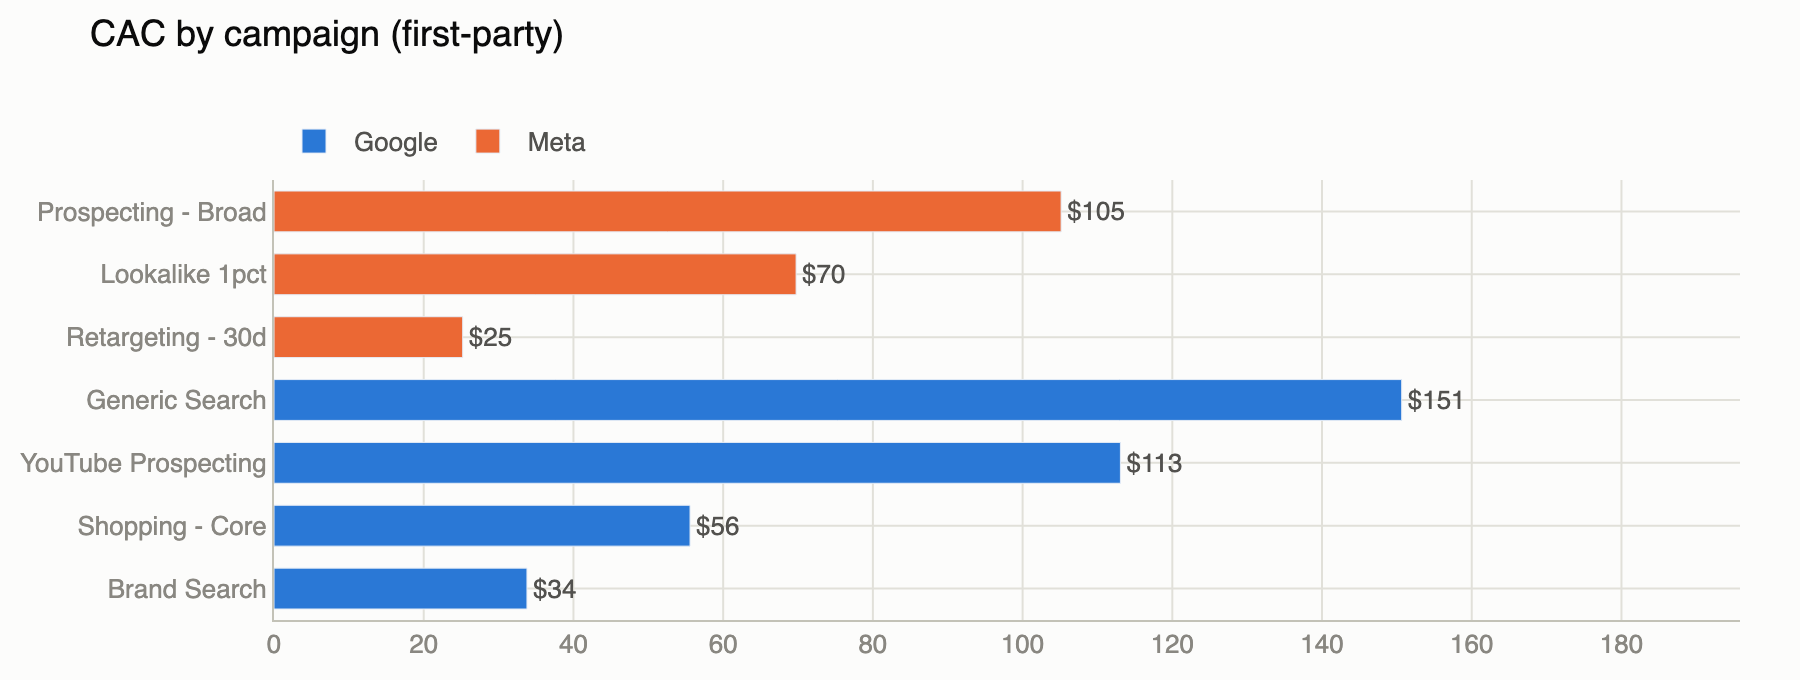
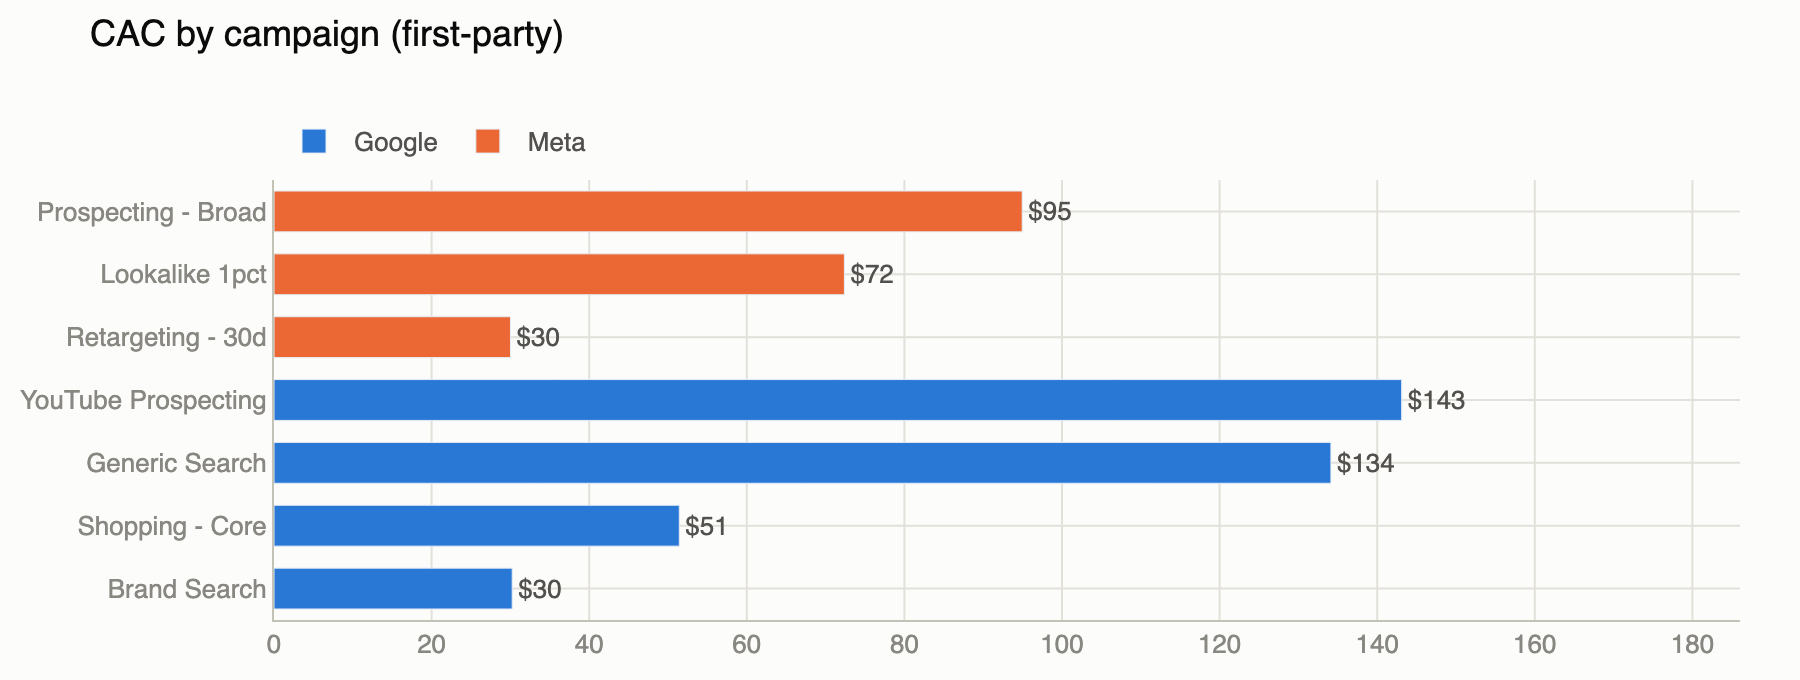
Realistic data distributions in the simulator
- log-normal noise with AR(1) persistence (lag-1 autocorr ~0.4, stateless
  truncated-MA construction)
- campaign lifecycle: learning ramp + CTR fatigue decay on ~75d refresh cycle
- ~3% shock days (promo spikes / tracking outages) -- the anomaly alert's prey
- per-campaign fp_share: overclaim now 1.02x (brand) to 1.78x (view-through)
- front-loaded conversion maturity (exp approach, full restate by day 10)
- log-normal order values; mean-preserving rounding for small campaigns
- seed_meta version stamp: dashboard reseeds warehouses built by older
  generators

diff --git a/simulator/app.py b/simulator/app.py
@@ -1,4 +1,4 @@
-"""Ad platform API simulator.
+"""Ad platform API simulator with realistic data distributions.
 
 Fakes three upstream sources for the ETL pipeline:
   GET /google/campaign_stats   - Google Ads-shaped report (camelCase, costMicros)
@@ -7,35 +7,57 @@ Fakes three upstream sources for the ETL pipeline:
   GET /firstparty/orders       - first-party order truth (utm-tagged)
 
 All data is deterministic given (campaign, date): the same query always returns
-the same base numbers. Conversions "mature": a report pulled with as_of close to
-the stat date under-reports conversions, and later as_of dates report more --
-mimicking real platforms restating attributed conversions for up to ~7 days.
+the same base numbers. On top of that determinism, the generator reproduces the
+statistical texture of real ad data:
+
+  - log-normal daily noise with AR(1) persistence (a truncated moving-average
+    of per-day seeded gaussians), so good/bad days cluster like real series
+  - campaign lifecycle: a short learning ramp after each creative refresh,
+    then CTR fatigue decay, refreshing on a ~75-day cycle
+  - rare shock days per channel (~2% promo spikes, ~1% tracking outages) --
+    the heavy tail that spend-anomaly monitoring exists for
+  - front-loaded conversion maturity (~55% visible same day, ~88% by day 2,
+    fully restated by ~day 7+), mimicking real attribution windows
+  - campaign-type-specific over-attribution: retargeting/view-through-heavy
+    campaigns overclaim far more vs first-party orders than brand search
+  - log-normal order values (many small orders, occasional large ones)
+
 Pass ?as_of=YYYY-MM-DD to control the observation date (defaults to today).
 """
 
 import hashlib
+import math
 from datetime import date, timedelta
 
 from fastapi import FastAPI, HTTPException, Response
 
 app = FastAPI(title="Ad Platform Simulator")
 
+# (id, name, base_impressions, ctr, cvr, cpc, fp_share)
+# fp_share: fraction of platform-claimed conversions that are real first-party
+# orders. Retargeting/view-through campaigns overclaim most (low share);
+# brand search barely overclaims.
 CAMPAIGNS = {
     "google": [
-        ("g-101", "Brand Search", 9000, 0.055, 0.065, 1.9),
-        ("g-102", "Generic Search", 24000, 0.028, 0.021, 2.6),
-        ("g-103", "Shopping - Core", 15000, 0.034, 0.030, 1.4),
-        ("g-104", "YouTube Prospecting", 60000, 0.006, 0.007, 0.5),
+        ("g-101", "Brand Search", 9000, 0.055, 0.065, 1.9, 0.95),
+        ("g-102", "Generic Search", 24000, 0.028, 0.021, 2.6, 0.88),
+        ("g-103", "Shopping - Core", 15000, 0.034, 0.030, 1.4, 0.90),
+        ("g-104", "YouTube Prospecting", 60000, 0.006, 0.007, 0.5, 0.55),
     ],
     "meta": [
-        ("m-201", "Prospecting - Broad", 42000, 0.011, 0.012, 0.9),
-        ("m-202", "Retargeting - 30d", 8000, 0.042, 0.055, 1.1),
-        ("m-203", "Lookalike 1pct", 20000, 0.016, 0.018, 1.0),
+        ("m-201", "Prospecting - Broad", 42000, 0.011, 0.012, 0.9, 0.72),
+        ("m-202", "Retargeting - 30d", 8000, 0.042, 0.055, 1.1, 0.60),
+        ("m-203", "Lookalike 1pct", 20000, 0.016, 0.018, 1.0, 0.75),
     ],
 }
 
 WEEKDAY_FACTOR = [1.0, 1.02, 1.05, 1.04, 1.0, 0.82, 0.78]  # Mon..Sun
-AOV = 68.0  # average order value for first-party revenue
+MEDIAN_ORDER_VALUE = 55.0
+ORDER_VALUE_SIGMA = 0.65  # log-normal spread: mean AOV ~ $68, right-skewed
+
+AR_PHI = 0.55   # day-to-day persistence of the latent demand/auction factor
+AR_DEPTH = 10   # MA truncation depth (phi^10 ~ 0.25% -- negligible tail)
+CREATIVE_CYCLE_DAYS = 75  # creative refresh cadence per campaign
 
 
 def _rand(*parts) -> float:
@@ -44,31 +66,85 @@ def _rand(*parts) -> float:
     return int.from_bytes(h[:8], "big") / 2**64
 
 
+def _gauss(*parts) -> float:
+    """Deterministic standard normal (Box-Muller over two hash uniforms)."""
+    u1 = max(_rand(*parts, "u1"), 1e-12)
+    u2 = _rand(*parts, "u2")
+    return math.sqrt(-2.0 * math.log(u1)) * math.cos(2.0 * math.pi * u2)
+
+
+def _ar1(key: str, cid: str, d: date) -> float:
+    """AR(1) latent factor at date d, computed statelessly as a truncated
+    MA(inf): sum(phi^k * eps_{d-k}). Rescaled to unit variance so callers can
+    multiply by their own sigma. Same date -> same value, always."""
+    total = sum(AR_PHI ** k * _gauss(key, cid, d - timedelta(days=k))
+                for k in range(AR_DEPTH + 1))
+    return total * math.sqrt(1.0 - AR_PHI ** 2)
+
+
+def _lognorm(sigma: float, z: float) -> float:
+    """Mean-preserving log-normal multiplier for a given z-score."""
+    return math.exp(sigma * z - sigma * sigma / 2.0)
+
+
+def _lifecycle(cid: str, d: date) -> float:
+    """CTR multiplier over the creative's life: short learning ramp after each
+    refresh, then fatigue decay toward ~0.7 of peak until the next refresh.
+    Cycle position derives from the absolute date, so it needs no state."""
+    offset = int(_rand("launch", cid) * CREATIVE_CYCLE_DAYS)
+    age = (d.toordinal() + offset) % CREATIVE_CYCLE_DAYS
+    ramp = min(1.0, 0.85 + 0.03 * age)          # ~5-day learning phase
+    fatigue = 0.68 + 0.32 * math.exp(-age / 45)  # slow creative wearout
+    return ramp * fatigue
+
+
+def _shock(platform: str, d: date) -> float:
+    """Rare channel-wide shock days: ~2% promo spikes (1.6-2.8x volume),
+    ~1% tracking/delivery outages (~0.45x). The heavy tail."""
+    r = _rand("event", platform, d)
+    if r < 0.02:
+        return 1.6 + 1.2 * _rand("event-size", platform, d)
+    if r < 0.03:
+        return 0.45
+    return 1.0
+
+
 def _daily(platform: str, cid: str, base_impr: int, ctr: float, cvr: float,
-           cpc: float, d: date) -> dict:
+           cpc: float, fp_share: float, d: date) -> dict:
     wf = WEEKDAY_FACTOR[d.weekday()]
-    noise = 0.8 + 0.4 * _rand(platform, cid, d, "impr")
-    impressions = int(base_impr * wf * noise)
-    clicks = int(impressions * ctr * (0.85 + 0.3 * _rand(platform, cid, d, "ctr")))
-    spend = round(clicks * cpc * (0.9 + 0.2 * _rand(platform, cid, d, "cpc")), 2)
-    final_conversions = clicks * cvr * (0.8 + 0.4 * _rand(platform, cid, d, "cvr"))
+    shock = _shock(platform, d)
+
+    demand = _ar1("demand", cid, d)    # persistent volume factor
+    auction = _ar1("auction", cid, d)  # persistent CPC pressure
+
+    impressions = int(base_impr * wf * shock * _lognorm(0.18, demand))
+    eff_ctr = ctr * _lifecycle(cid, d) * _lognorm(0.08, _gauss("ctr", cid, d))
+    clicks = int(impressions * eff_ctr)
+    eff_cpc = cpc * _lognorm(0.10, auction)
+    spend = round(clicks * eff_cpc, 2)
+    eff_cvr = cvr * _lognorm(0.12, _gauss("cvr", cid, d))
+    final_conversions = clicks * eff_cvr
     return {
         "impressions": impressions,
         "clicks": clicks,
         "spend": spend,
         "final_conversions": final_conversions,
+        "fp_share": fp_share,
     }
 
 
 def _maturity(stat_date: date, as_of: date) -> float:
     """Fraction of final conversions visible when observed on as_of.
 
-    Day 0: ~50% attributed. Fully mature after 7 days.
+    Front-loaded like real attribution windows: ~55% same day, ~77% day 1,
+    ~88% day 2, then a shrinking tail; fully restated from day 10.
     """
     days = (as_of - stat_date).days
     if days < 0:
         return 0.0
-    return min(1.0, 0.5 + 0.5 * days / 7.0)
+    if days >= 10:
+        return 1.0
+    return 1.0 - 0.45 * math.exp(-days / 1.5)
 
 
 def _parse_dates(start: str, end: str, as_of: str | None):
@@ -93,11 +169,11 @@ def _date_range(s: date, e: date):
 def google_stats(start: str, end: str, as_of: str | None = None):
     s, e, a = _parse_dates(start, end, as_of)
     results = []
-    for cid, name, impr, ctr, cvr, cpc in CAMPAIGNS["google"]:
+    for cid, name, impr, ctr, cvr, cpc, fp in CAMPAIGNS["google"]:
         for d in _date_range(s, e):
             if d > a:
                 continue
-            m = _daily("google", cid, impr, ctr, cvr, cpc, d)
+            m = _daily("google", cid, impr, ctr, cvr, cpc, fp, d)
             results.append({
                 "campaign": {"resourceName": f"customers/123/campaigns/{cid}",
                              "id": cid, "name": name},
@@ -127,11 +203,11 @@ def meta_insights(since: str, until: str, as_of: str | None = None):
         )
     s, e, a = _parse_dates(since, until, as_of)
     data = []
-    for cid, name, impr, ctr, cvr, cpc in CAMPAIGNS["meta"]:
+    for cid, name, impr, ctr, cvr, cpc, fp in CAMPAIGNS["meta"]:
         for d in _date_range(s, e):
             if d > a:
                 continue
-            m = _daily("meta", cid, impr, ctr, cvr, cpc, d)
+            m = _daily("meta", cid, impr, ctr, cvr, cpc, fp, d)
             conv = round(m["final_conversions"] * _maturity(d, a), 2)
             data.append({
                 "campaign_id": cid,
@@ -153,26 +229,35 @@ def meta_insights(since: str, until: str, as_of: str | None = None):
 def firstparty_orders(start: str, end: str, as_of: str | None = None):
     """Ground-truth orders from 'our own backend', UTM-tagged.
 
-    Roughly 85% of a campaign's final conversions become real orders (the rest
-    is platform over-attribution) -- this is the gap the pipeline should expose.
-    Orders appear with a 1-day lag and don't restate after that.
+    Each campaign's fp_share of platform-claimed conversions become real
+    orders (the rest is over-attribution -- worst for retargeting and
+    view-through-heavy campaigns). Order values are log-normal: many small
+    orders, occasional large ones. Orders appear with a 1-day lag and don't
+    restate after that.
     """
     s, e, a = _parse_dates(start, end, as_of)
     orders = []
     for platform, campaigns in CAMPAIGNS.items():
-        for cid, name, impr, ctr, cvr, cpc in campaigns:
+        for cid, name, impr, ctr, cvr, cpc, fp in campaigns:
             for d in _date_range(s, e):
                 if (a - d).days < 1:  # 1-day ingestion lag
                     continue
-                m = _daily(platform, cid, impr, ctr, cvr, cpc, d)
-                n_orders = int(m["final_conversions"] * 0.85)
+                m = _daily(platform, cid, impr, ctr, cvr, cpc, fp, d)
+                # mean-preserving rounding: plain int() would bias small
+                # campaigns' order counts far below fp_share of conversions
+                expected = m["final_conversions"] * m["fp_share"]
+                n_orders = int(expected)
+                if _rand("order-frac", cid, d) < expected - n_orders:
+                    n_orders += 1
                 for i in range(n_orders):
+                    value = MEDIAN_ORDER_VALUE * math.exp(
+                        ORDER_VALUE_SIGMA * _gauss(cid, d, i, "rev"))
                     orders.append({
                         "order_id": f"{cid}-{d.isoformat()}-{i:04d}",
                         "order_date": d.isoformat(),
                         "utm_source": platform,
                         "utm_campaign": cid,
-                        "revenue": round(AOV * (0.5 + _rand(cid, d, i, "rev")), 2),
+                        "revenue": round(value, 2),
                     })
     return {"orders": orders, "count": len(orders)}
 

diff --git a/dashboard/app.py b/dashboard/app.py
@@ -82,18 +82,30 @@ REQUIRED_TABLES = {"fact_ad_performance_daily", "mart_campaign_daily",
                    "mart_channel_pacing"}
 
 
-def _existing_tables() -> set:
+def _needs_seed() -> bool:
     if not DB_PATH.exists():
-        return set()
+        return True
     con = duckdb.connect(str(DB_PATH), read_only=True)
     try:
-        return {r[0] for r in con.execute(
+        tables = {r[0] for r in con.execute(
             "SELECT table_name FROM information_schema.tables").fetchall()}
+        if not REQUIRED_TABLES <= tables:
+            return True
+        if "seed_meta" in tables:
+            from scripts.seed_demo import SEED_VERSION
+            version = con.execute("SELECT version FROM seed_meta").fetchone()[0]
+            return version < SEED_VERSION
+        # seeded warehouse from before versioning existed (cloud) -> refresh;
+        # locally-built warehouses without the stamp also just get refreshed
+        return True
     finally:
         con.close()
 
 
-if not REQUIRED_TABLES <= _existing_tables():
+import sys
+sys.path.insert(0, str(Path(__file__).resolve().parent.parent))
+
+if _needs_seed():
     # Build/refresh the warehouse in-process by replaying the last 3 daily
     # pipeline runs against the simulator (includes dbt build -> all marts).
     import sys

diff --git a/scripts/seed_demo.py b/scripts/seed_demo.py
@@ -14,6 +14,10 @@ from pathlib import Path
 
 sys.path.insert(0, str(Path(__file__).resolve().parent.parent))
 
+# Bump when the simulator's data generation changes materially: the dashboard
+# reseeds any warehouse stamped with an older version.
+SEED_VERSION = 2
+
 
 def seed() -> str:
     from fastapi.testclient import TestClient
@@ -43,6 +47,12 @@ def seed() -> str:
                 raise RuntimeError(f"seed run for {as_of} failed")
     finally:
         extract.fetch_with_retry = original
+
+    import duckdb
+    con = duckdb.connect(config.DB_PATH)
+    con.execute("CREATE OR REPLACE TABLE seed_meta AS SELECT ? AS version",
+                [SEED_VERSION])
+    con.close()
     return config.DB_PATH
 
 

diff --git a/tests/test_e2e.py b/tests/test_e2e.py
@@ -73,7 +73,11 @@ def test_quality_checks_pass_on_real_output(isolated_env):
     con = duckdb.connect(config.DB_PATH)
     results = quality.run_checks(con, AS_OF_1)
     con.close()
-    assert all(ok for _, ok, _ in results), results
+    # Hard integrity checks must always pass. Soft checks (freshness, spend
+    # anomaly) may legitimately flag: the simulator has rare shock days by
+    # design, and one may land on the pinned test date.
+    hard = [(n, ok, d) for n, ok, d in results if n not in quality.SOFT_CHECKS]
+    assert all(ok for _, ok, _ in hard), hard
 
 
 def test_marts_keep_platform_and_firstparty_separate(isolated_env):

diff --git a/docs/DESIGN.md b/docs/DESIGN.md
@@ -67,6 +67,34 @@ are above/below break-even ROAS (shift budget), what CAC really is when
 measured against **first-party orders** instead of platform claims, and how
 much each platform over-attributes (here: 7–45%).
 
+## Synthetic data realism
+
+The generator is deterministic per (campaign, date) — required for replayable
+tests and idempotency proofs — but reproduces the statistical texture of real
+ad data on top of that determinism:
+
+- **Log-normal daily noise with AR(1) persistence** (φ = 0.55, implemented as
+  a truncated moving average of per-day seeded gaussians, so it stays
+  stateless). Measured lag-1 autocorrelation of daily spend: ~0.4 — good and
+  bad days cluster, as in real accounts.
+- **Campaign lifecycle**: a ~5-day learning ramp after each creative refresh,
+  then CTR fatigue decay toward ~0.7 of peak on a ~75-day refresh cycle — so
+  the fatigue mart has real structure to detect.
+- **Shock days**: ~2% of channel-days are promo spikes (1.6–2.8× volume),
+  ~1% are tracking outages (~0.45×) — the heavy tail the spend-anomaly
+  alert exists for, and occasionally visible firing on the live demo.
+- **Campaign-type-specific over-attribution**: each campaign has an
+  `fp_share` (fraction of platform-claimed conversions that are real
+  first-party orders) — brand search ~0.95 (overclaims ~2%), retargeting and
+  YouTube view-through ~0.55–0.60 (overclaim 1.6–1.8×), matching the real
+  pattern that view-through attribution inflates most.
+- **Front-loaded conversion maturity**: ~55% of conversions visible same-day,
+  ~77% by day 1, ~88% by day 2, fully restated from day ~10 — an exponential
+  approach, not the linear ramp of a naive simulator.
+- **Log-normal order values** (median $55, σ = 0.65 → mean ≈ $68, occasional
+  $300+ orders), with mean-preserving stochastic rounding of small campaigns'
+  order counts so low-volume campaigns aren't biased by integer truncation.
+
 ## Testing
 
 - **Parser unit tests** — schema normalization, malformed payloads

diff --git a/README.md b/README.md
@@ -18,8 +18,8 @@ keys, no setup beyond Python.**
 ![Platform overclaim](assets/overclaim.png)
 
 *Above: which campaigns pay for themselves (break-even line at 1.0), and how
-much each platform inflates its conversion numbers compared to actual orders —
-here, between 7% and 45%.*
+much each channel inflates its conversion numbers compared to actual orders —
+brand search barely (~2%), view-through-heavy campaigns by up to ~78%.*
 
 ## The interesting part
 
